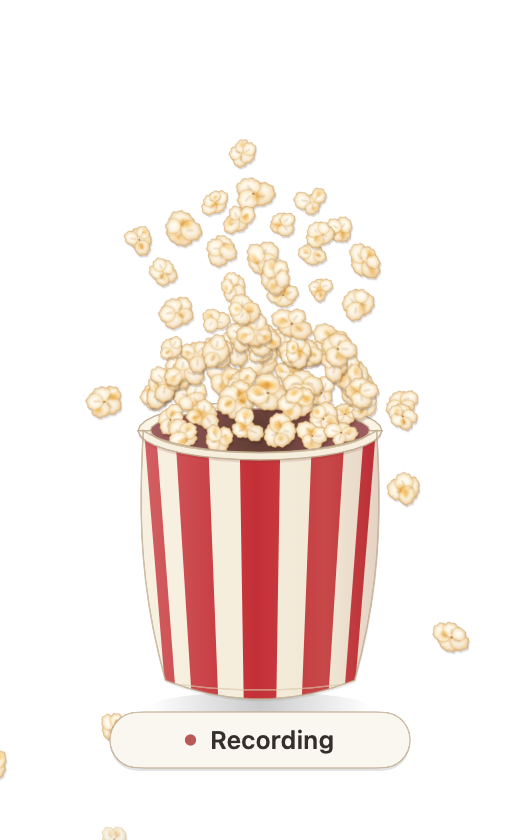
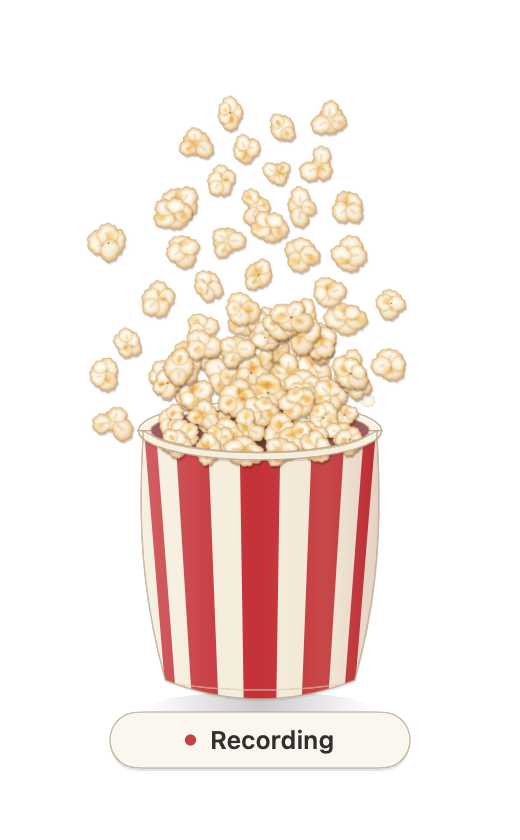
Regenerate popcorn visuals for the fuller pile and stray cleanup
Claude-Session: https://claude.ai/code/session_01N85GfCiXRj45JScwBpcgTM

diff --git a/docs/visuals/popcorn-polish-check.md b/docs/visuals/popcorn-polish-check.md
@@ -1,4 +1,4 @@
-# Popcorn voice-polish verification - 2026-09-13T00:30:43Z
+# Popcorn voice-polish verification - 2026-09-13T00:47:25Z
 
 Production HUD remains Canvas-only. Popcorn captures use the
 fixed 260×420 point scene and the production `SceneInput(snapshot:)` mapping; primary stills use 2× documentation scale with native 1× copies where applicable. Kernels are pre-rendered sprites under one scene-space light; the decorative pile is spring-simulated in `PopcornSim`.
@@ -8,10 +8,10 @@ fixed 260×420 point scene and the production `SceneInput(snapshot:)` mapping; p
 - Capture command: `PopcornCapture <output-directory> popcorn`.
 - Seed 2026 sequence: quiet 0.035 (2 s), normal 0.12 (2 s), loud 0.28 (3 s),
   accents (2 s), silence (1 s). Light and dark backgrounds.
-- Peak kernel count in capture: 71 (cap 120).
-- Sequence generation wall time (simulation, still rendering, and PNG writes): 179.6 ms.
-- Offscreen Canvas renders (2× light+dark pair): median 0.97 ms,
-  95th 1.02 ms. These are ImageRenderer measurements,
+- Peak kernel count in capture: 63 (cap 120).
+- Sequence generation wall time (simulation, still rendering, and PNG writes): 188.5 ms.
+- Offscreen Canvas renders (2× light+dark pair): median 1.03 ms,
+  95th 1.07 ms. These are ImageRenderer measurements,
   **not** live display/compositor frame timings and **not** microphone-to-screen latency.
   Layered release numbers come from `PopcornCapture --bench`.
 - Packet-to-render path is one display tick after `consumePeak` (held level between
